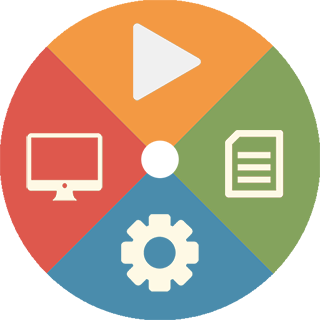
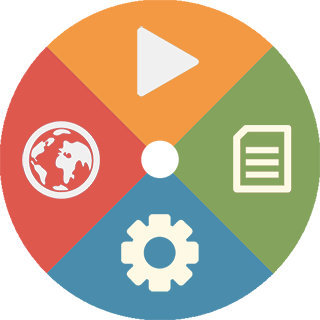
Fix bug

diff --git a/win32OOP/PalmAOOP/eventcontrol.cpp b/win32OOP/PalmAOOP/eventcontrol.cpp
@@ -36,7 +36,14 @@ EventControl::EventControl(QObject *parent) :
      connect(this,SIGNAL(pcS()),this,SLOT(pc()));
      connect(this,SIGNAL(otherS()),this,SLOT(other()));
      connect(this,SIGNAL(disconnectAllS()),this,SLOT(disconnectAll()));
-     connect(this,SIGNAL(handDown()),OP,SLOT(showDesktop()));
+     connect(this,SIGNAL(handUp()),OP,SLOT(moveWindowtoUp()));
+     connect(this,SIGNAL(handDown()),OP,SLOT(moveWindowtoDown()));
+     connect(this,SIGNAL(handLeft()),OP,SLOT(moveWindowtoLeft()));
+     connect(this,SIGNAL(handRight()),OP,SLOT(moveWindowtoRight()));
+}
+
+EventControl::~EventControl(){
+    controller.removeListener(listenner);
 }
 
 void EventControl::EventListenner(){
@@ -210,6 +217,9 @@ void EventControl::desktop(){
     connect(this,SIGNAL(pinchStart()),this,SLOT(showDT()));
     connect(this,SIGNAL(pinchStop()),this,SLOT(hideDT()));
     connect(this,SIGNAL(turntableUp()),OP,SLOT(openFileManager()));
+    //connect(this,SIGNAL(turntableDown()),OP,SLOT(openFileManager()));
+    connect(this,SIGNAL(turntableLeft()),OP,SLOT(openBrowser()));
+    connect(this,SIGNAL(turntableRight()),OP,SLOT(openFileManager()));
 
 }
 void EventControl::browser(){
@@ -274,7 +284,7 @@ void EventControl::hideDT(){
     int DT_y = (1-iBox.normalizePoint(controller.frame().hands()[0].stabilizedPalmPosition()).y) * QApplication::desktop()->height() -160;
     if(Turntable[0] != 0){
         float slope = (DT_y - Turntable[1])/(DT_x - Turntable[0]);
-        int Horizontal,Vertical;
+        int Horizontal,Vertical=0;
         if(DT_x - Turntable[0] >= 0){
             Horizontal = 1;
         }else{
@@ -288,15 +298,15 @@ void EventControl::hideDT(){
         Turntable[0] = 0;
         Turntable[1] = 0;
         if(slope >= 1 || slope <= -1){
-            if(Vertical = 1){
+            if(Vertical == 1){
                 emit turntableUp();
-            }else if(Vertical = -1){
+            }else if(Vertical == -1){
                 emit turntableDown();
             }
         }else{
-            if(Horizontal = 1){
+            if(Horizontal == 1){
                 emit turntableRight();
-            }else if(Horizontal = -1){
+            }else if(Horizontal == -1){
                 emit turntableLeft();
             }
         }

diff --git a/win32OOP/PalmAOOP/operate.cpp b/win32OOP/PalmAOOP/operate.cpp
@@ -1,4 +1,6 @@
 #include "operate.h"
+#include <QDesktopServices>
+#include <QUrl>
 #include <Windows.h>
 #include <iostream>
 Operate::Operate(QObject *parent) :
@@ -74,4 +76,33 @@ void Operate::swipeBrowserTab(){
     keybd_event(VK_TAB,0,0,0);
     keybd_event(VK_TAB,0,KEYEVENTF_KEYUP,0);
     keybd_event(VK_CONTROL,0,KEYEVENTF_KEYUP,0);
+}
+void Operate::moveWindowtoLeft(){
+    keybd_event(VK_LWIN,0,0,0);
+    keybd_event(VK_LEFT,0,0,0);
+    keybd_event(VK_LEFT,0,KEYEVENTF_KEYUP,0);
+    keybd_event(VK_LWIN,0,KEYEVENTF_KEYUP,0);
+}
+void Operate::moveWindowtoRight(){
+    keybd_event(VK_LWIN,0,0,0);
+    keybd_event(VK_RIGHT,0,0,0);
+    keybd_event(VK_RIGHT,0,KEYEVENTF_KEYUP,0);
+    keybd_event(VK_LWIN,0,KEYEVENTF_KEYUP,0);
+}
+void Operate::moveWindowtoUp(){
+    keybd_event(VK_LWIN,0,0,0);
+    keybd_event(VK_UP,0,0,0);
+    keybd_event(VK_UP,0,KEYEVENTF_KEYUP,0);
+    keybd_event(VK_LWIN,0,KEYEVENTF_KEYUP,0);
+}
+void Operate::moveWindowtoDown(){
+    keybd_event(VK_LWIN,0,0,0);
+    keybd_event(VK_DOWN,0,0,0);
+    keybd_event(VK_DOWN,0,KEYEVENTF_KEYUP,0);
+    keybd_event(VK_LWIN,0,KEYEVENTF_KEYUP,0);
+}
+
+void Operate::openBrowser(){
+    QUrl url("http://www.shou.edu.cn");
+    QDesktopServices::openUrl(url);
 }

diff --git a/win32OOP/PalmAOOP/gesturerecognition.cpp b/win32OOP/PalmAOOP/gesturerecognition.cpp
@@ -289,24 +289,24 @@ bool GestureRecognition::gesScreenTap(){
 
 int GestureRecognition::gesHandDirection(){
     Leap::Vector handSpeed = controller.frame().fingers()[0].tipVelocity();
-    if(handSpeed.x > 500){
+    if(handSpeed.x > 1000){
         //LEFT
         return 1;
-    }else if(handSpeed.x < -500){
+    }else if(handSpeed.x < -1000){
         //RIGHT
         return 2;
     }
-    if(handSpeed.y > 500){
+    if(handSpeed.y > 1000){
         //UP
         return 3;
-    }else if(handSpeed.y < -500){
+    }else if(handSpeed.y < -1000){
         //DOWN
         return 4;
     }
-    if(handSpeed.z > 500){
+    if(handSpeed.z > 1000){
         //FORWARD
         return 5;
-    }else if(handSpeed.z < -500){
+    }else if(handSpeed.z < -1000){
         //BACKWARD
         return 6;
     }

diff --git a/win32OOP/PalmAOOP/displaymouseline.cpp b/win32OOP/PalmAOOP/displaymouseline.cpp
@@ -44,7 +44,7 @@ void DisplayMouseLine::paintEvent(QPaintEvent *event){
     if(prevx!=0){
         painter. drawLine( prevx+160 , prevy+160 , crtx , crty );
     }
-    std::cout<<prevx<<prevy<<crtx<<crty<<std::endl;
+    //std::cout<<prevx<<prevy<<crtx<<crty<<std::endl;
     //painter.drawEllipse(crtx-15 ,crty-15,30,30);
 }
 

diff --git a/win32OOP/PalmAOOP/operate.h b/win32OOP/PalmAOOP/operate.h
@@ -25,6 +25,11 @@ public slots:
     void swipeWindow();
     void swipeWindow(int);
     void swipeBrowserTab();
+    void moveWindowtoLeft();
+    void moveWindowtoRight();
+    void moveWindowtoUp();
+    void moveWindowtoDown();
+    void openBrowser();
 
 
 };

diff --git a/win32OOP/PalmAOOP/eventcontrol.h b/win32OOP/PalmAOOP/eventcontrol.h
@@ -17,7 +17,7 @@ class EventControl : public QObject
     Q_OBJECT
 public:
     explicit EventControl(QObject *parent = 0);
-
+    ~EventControl();
 signals:
     void grabStart();
     void grabStop();
